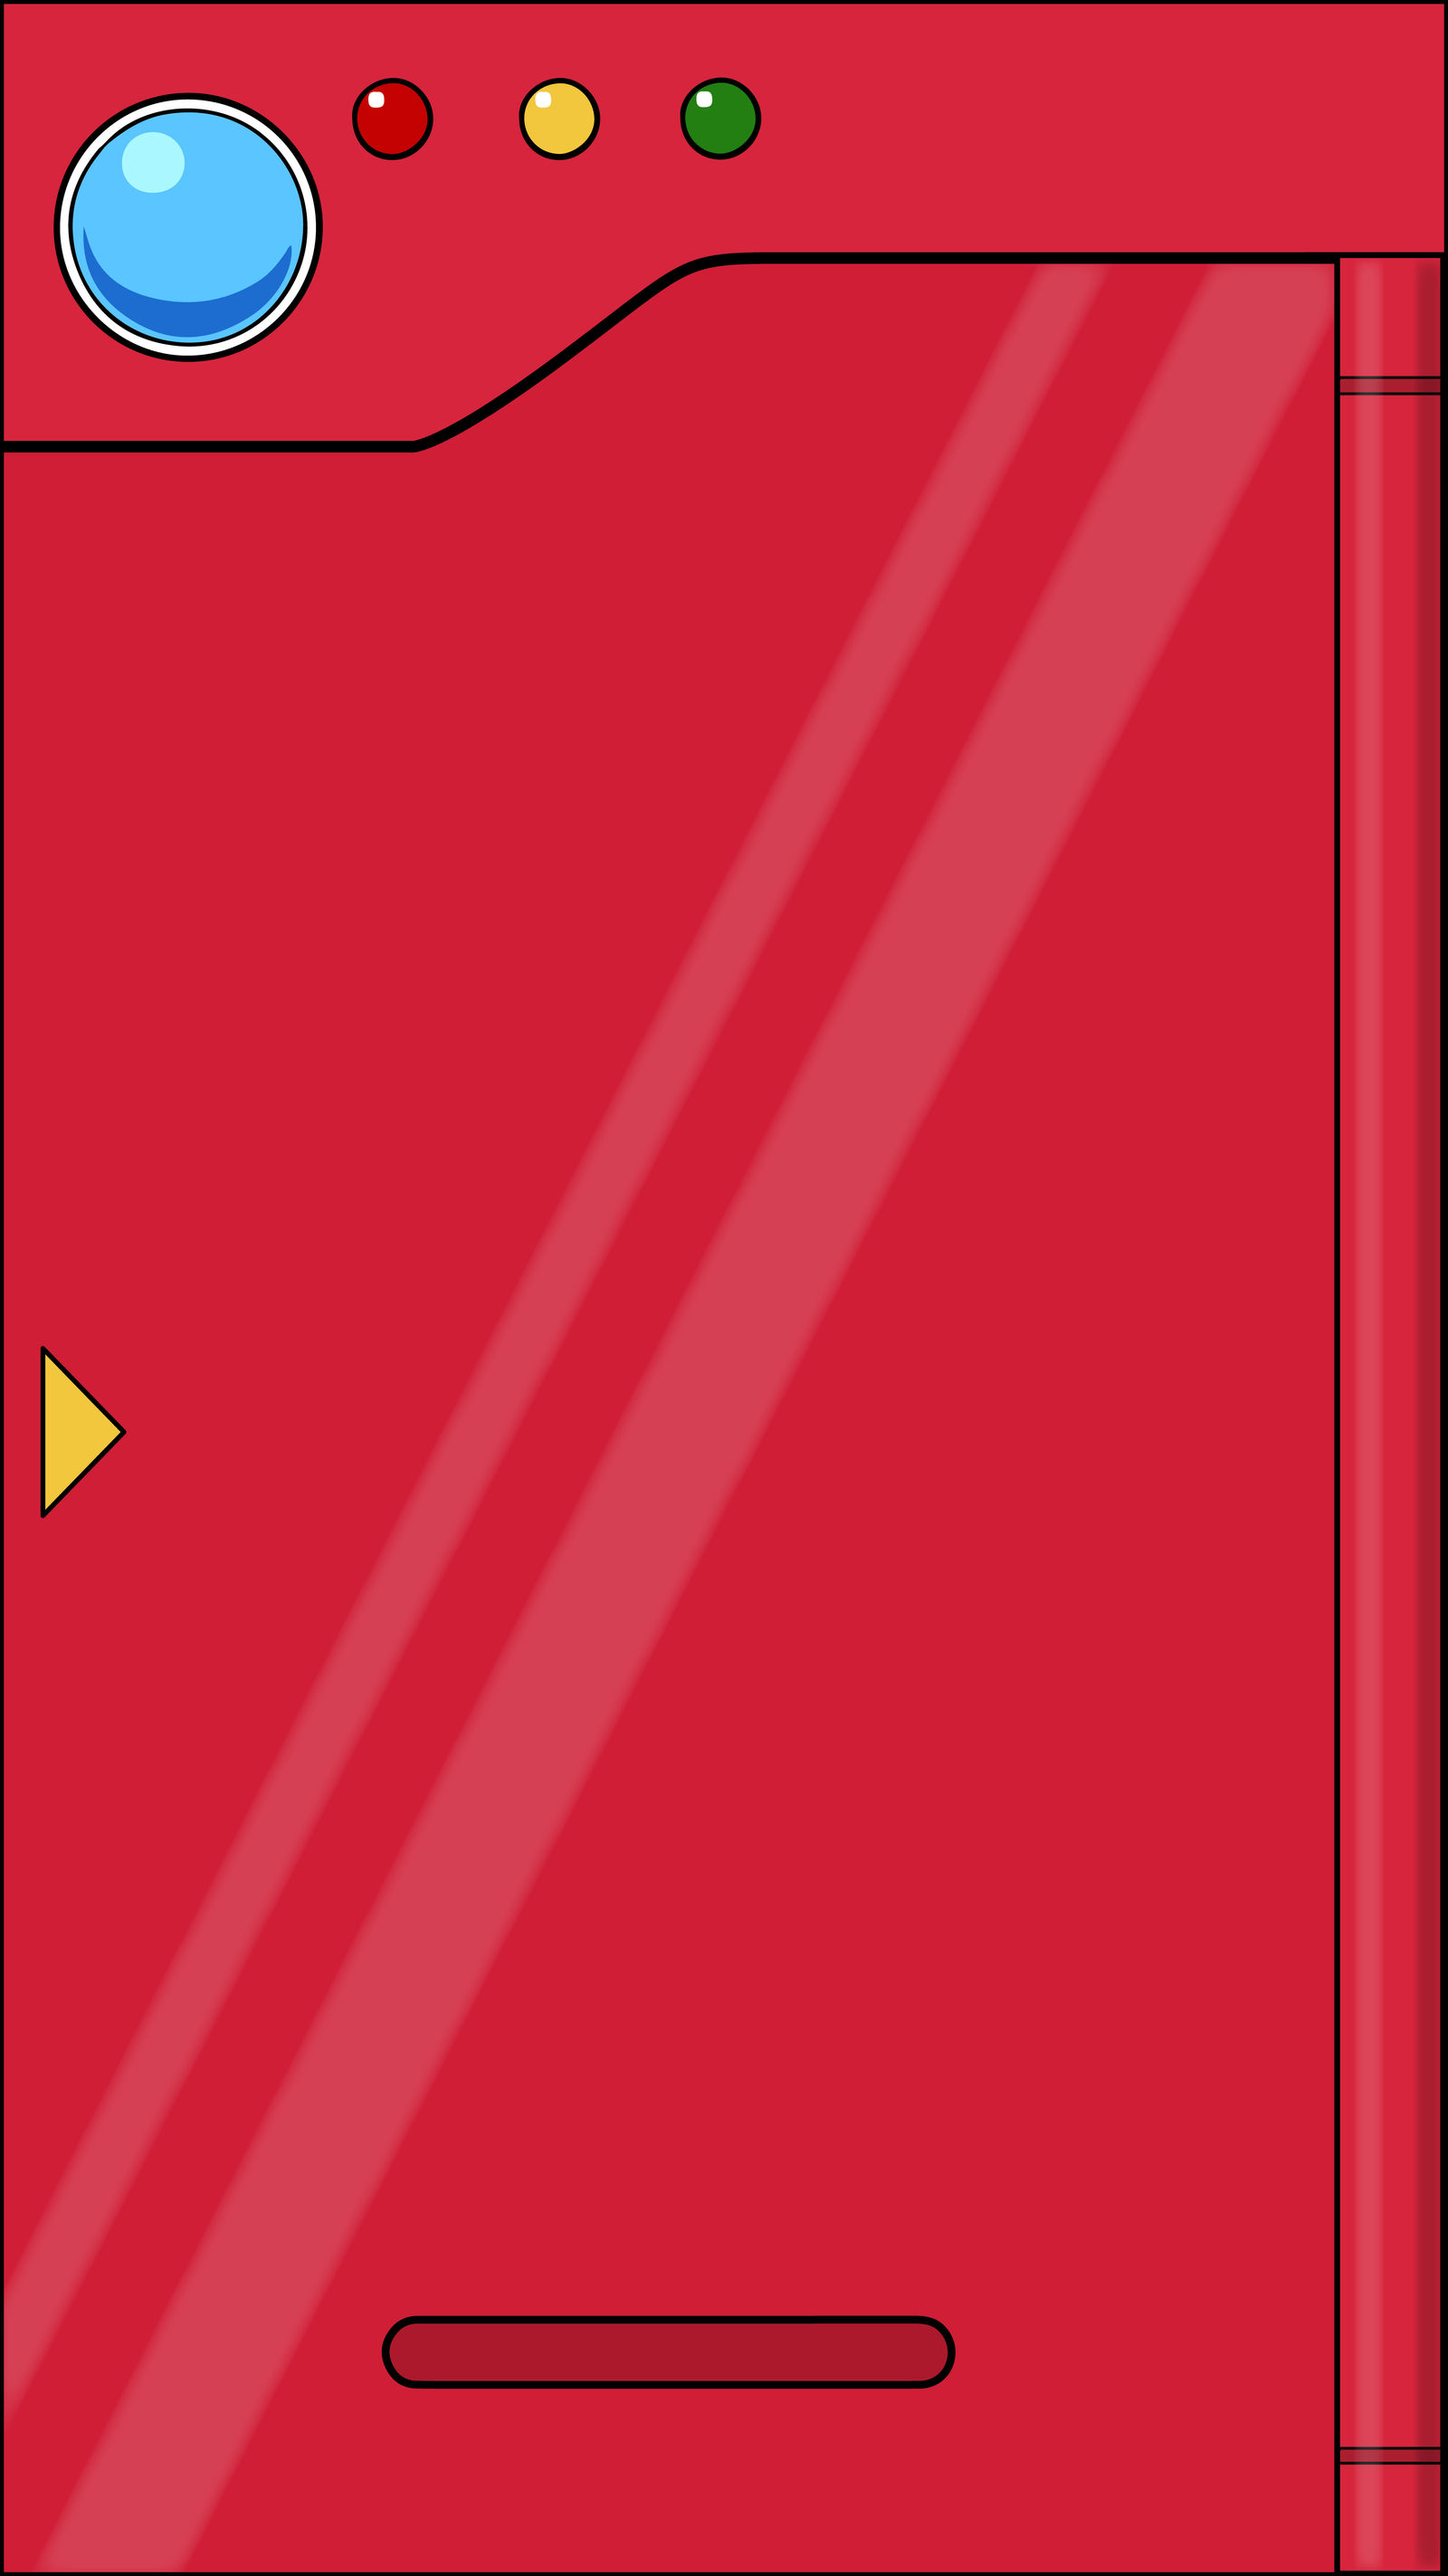
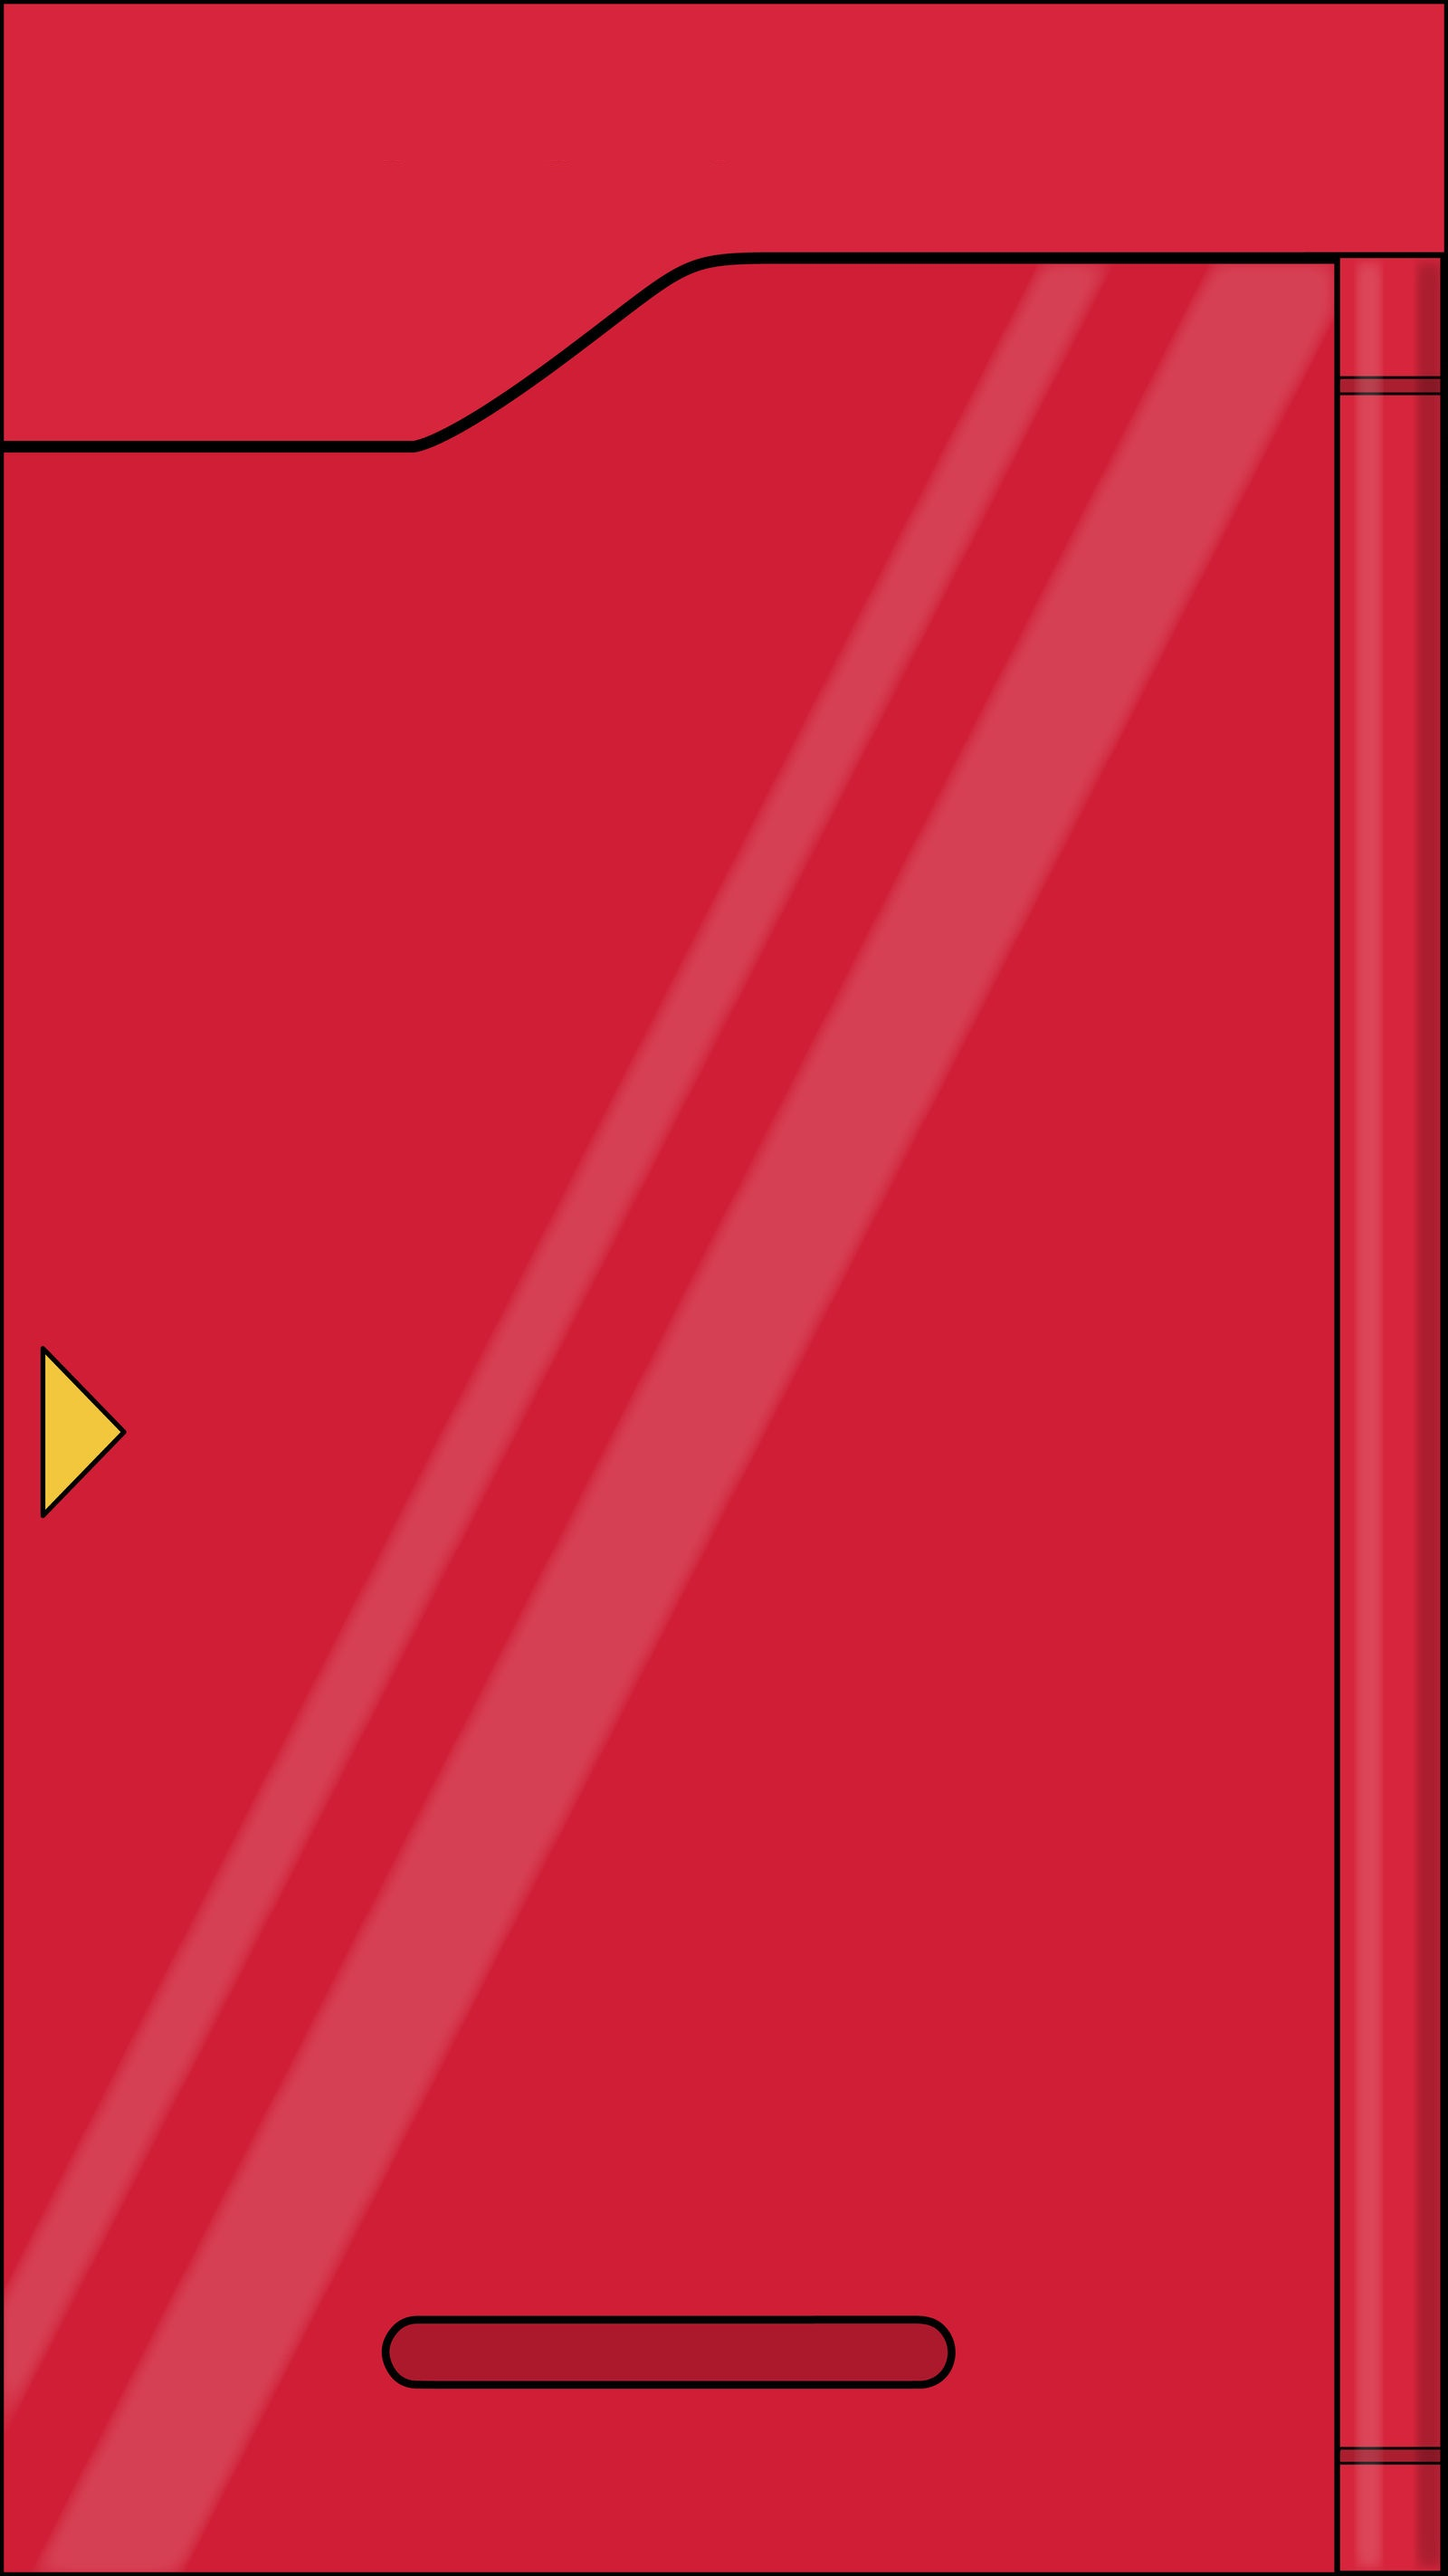
changes

Changed region(s): [[0.0312, 0.0309, 0.3125, 0.1546], [0.3438, 0.0309, 0.4375, 0.0618], [0.4688, 0.0309, 0.5312, 0.0618]]

diff --git a/public/css/style.css b/public/css/style.css
@@ -27,7 +27,7 @@ body {
      background-image: url("pokedex.jpg");
      background-size: 480px 620px;
      background-repeat: no-repeat;
-     background-position: center top;
+     background-position: center;
      padding-top: 80px;
 }
 
@@ -65,6 +65,7 @@ h2 {
 }
 
 #search-header {
+     margin-top: 5px;
      margin-bottom: 10px;
 }
 
@@ -78,16 +79,8 @@ h3 {
 /* ADDITIONAL STYLES
 /*******************************************/
 
-.nav-container {
-     position: absolute;
-     margin-top: -100px;
-     
-}
-
 .panel {
-     overflow: hidden;
-     transition: max-height 0.2s ease-out;
-     /* max-height: 0; */
+     margin-top: 130px;
 }
 
 ul {
@@ -190,7 +183,7 @@ img:active {
 
 #search-results {
      height: 42vh;
-     margin-top: 120px;
+     /* margin-top: 120px; */
      padding-top: 10px;
      background-image: linear-gradient(rgba(90, 90, 135), lightblue, rgb(90, 90, 135));
      border: 2px solid black;
@@ -204,7 +197,7 @@ img:active {
 
 #deck {
      height: 42vh;
-     margin-top: 40px;
+     /* margin-top: 40px; */
      padding-top: 10px;
      background-image: linear-gradient(rgba(90, 90, 135), lightblue, rgb(90, 90, 135));
      border: 2px solid black;
@@ -215,6 +208,15 @@ img:active {
      display: grid;
      place-items: center;
 }
+
+#delete-deck-button {
+     position: absolute;
+     margin-left: -40px;
+     z-index: 10px;
+     cursor: pointer;
+}
+
+/* CAROUSEL */
 
 .slider {
      width: 100%;
@@ -237,19 +239,11 @@ img:active {
      object-fit: cover;
 }
 
-#delete-deck-button {
-     position: absolute;
-     margin-left: -40px;
-     z-index: 10px;
-     cursor: pointer;
-
-}
-
 .search-btn-prev, .search-btn-next {
      position: absolute;
-     margin-top: 325px;
-     margin-left: 730px;
-     margin-right: 750px;
+     margin-top: -40px;
+     margin-left: 738px;
+     margin-right: 758px;
      width: 40px;
      height: 250px;
      padding: 10px;
@@ -263,9 +257,9 @@ img:active {
 
 .deck-btn-prev, .deck-btn-next {
      position: absolute;
-     margin-top: 760px;
-     margin-left: 730px;
-     margin-right: 750px;
+     margin-top: -40px;
+     margin-left: 738px;
+     margin-right: 758px;
      width: 40px;
      height: 250px;
      padding: 10px;
@@ -289,4 +283,70 @@ img:active {
 .search-btn-next, .deck-btn-next {
      top: 45%;
      right: 2%;
+}
+
+/* TAB VIEW */
+
+.nav-container {
+     position: absolute;
+     margin-top: -120px;
+     margin-left: 200px;
+     overflow: hidden;
+     height: 50px;
+}
+
+#logout-button {
+     position: absolute;
+     margin-top: -110px;
+     margin-left: -200px;
+     border: 3px solid rgb(24, 23, 23);
+     border-radius: 50%;
+     box-shadow: 0px 0px 1px #aaa, inset 0px 2px 3px #fff;
+     outline: none;
+     cursor: pointer;
+     padding: 20px 18px;
+     transition: 0.3s;
+}
+
+#nav-search {
+     background-image: linear-gradient(rgb(200, 145, 145), rgb(255, 0, 0));
+}
+
+#nav-results {
+     background-image: linear-gradient(rgb(200, 200, 135), rgb(200, 220, 30));
+}
+
+#nav-deck {
+     background-image: linear-gradient(rgb(200, 160, 135), rgb(20, 115, 60));
+}
+
+.tab-button {
+     border: 3px solid rgb(24, 23, 23);
+     margin: 0 10px;
+     width: 14px;
+     height: 14px;
+     position: relative;
+     text-align: center;
+     border-radius: 50%;
+     box-shadow: 0px 0px 1px #aaa, inset 0px 2px 1px #fff;
+     outline: none;
+     cursor: pointer;
+     padding: 16px 18px;
+     transition: 0.3s;
+     font-size: 17px;
+}
+
+.tab-button:hover {
+     box-shadow: 0px 3px 5px rgb(192, 192, 192), inset 0px 2px 3px rgb(255, 255, 255);
+}
+
+.tab-button:active {
+     box-shadow: 0px 3px 8px rgb(192, 192, 192), inset 0px 2px 3px rgb(0, 0, 0);
+}
+
+.tab-content {
+     display: none;
+     padding: 6px 12px;
+     border: 1px solid #ccc;
+     border-top: none;
 }

diff --git a/public/main.js b/public/main.js
@@ -1,5 +1,6 @@
 document.querySelector('#search-button').addEventListener('click', getCards)
 formatCards()
+document.getElementById("nav-search").click();
 
 function getCards() {
 
@@ -333,11 +334,11 @@ function formatCards() {
 }
 
 function moveSlidesWhenAddingCard() {
-const slides = document.querySelectorAll(".deck-slide");
+    const slides = document.querySelectorAll(".deck-slide");
 
-slides.forEach((slide, indx) => {
-    slide.style.transform = `translateX(${indx * 100}%)`;
-});
+    slides.forEach((slide, indx) => {
+        slide.style.transform = `translateX(${indx * 100}%)`;
+    });
 }
 
 const slides = document.querySelectorAll(".deck-slide");
@@ -370,3 +371,21 @@ let maxSlide = slides.length - 1;
 // Hide slider arrows if there are no cards to display
 
 // when you add a card to the deck, maybe create an empty slide first, go to it, and then have the card appear?
+
+
+// TAB SLIDES
+function openTab(evt, tabName) {
+    let i, tabcontent, tablinks;
+    tabcontent = document.getElementsByClassName("tab-content");
+    for (i = 0; i < tabcontent.length; i++) {
+        tabcontent[i].style.display = "none";
+    }
+    tablinks = document.getElementsByClassName("tab-button");
+    for (i = 0; i < tablinks.length; i++) {
+        tablinks[i].className = tablinks[i].className.replace(" active", "");
+    }
+    document.getElementById(tabName).style.display = "block";
+    evt.currentTarget.className += " active";
+}
+
+// Get the element with id="default-open" and click on it
